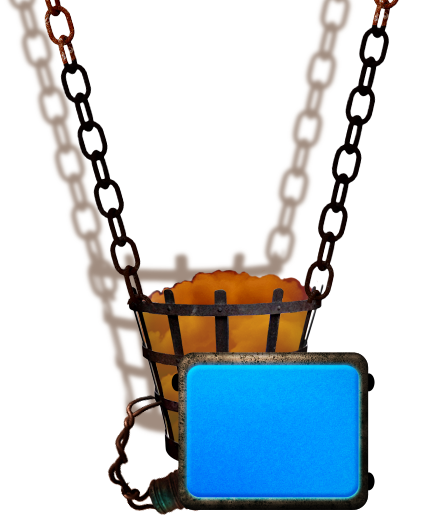
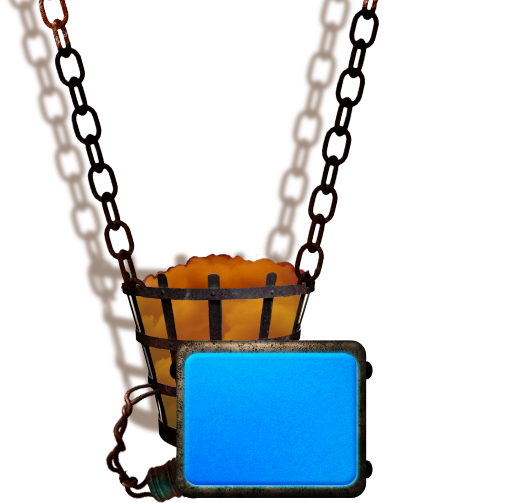
Fixing baskets images and positioning

diff --git a/src/code/templates/fv-egg-sort-game.js b/src/code/templates/fv-egg-sort-game.js
@@ -76,8 +76,8 @@ let animationEvents = {
           animatingDrake = new BioLogica.Organism(BioLogica.Species.Drake, egg.alleles, egg.sex);
           targetBasketIndex = basketIndex;
 
-          const leftOffset = 400,
-                topOffset = 200;
+          const leftOffset = 375,
+                topOffset = 100;
           appendAnimation('moveEggToBasket',
             <FastEggHatch
                 egg={animatingEgg} organism={animatingDrake}
@@ -91,8 +91,8 @@ let animationEvents = {
       }},
       hatchDrakeInBasket: { id: 1, complete: false, animate: function() {
         const { scale } = _this.props,
-              leftOffset = -250,
-              topOffset = -40;
+              leftOffset = -255,
+              topOffset = -140;
         appendAnimation('hatchDrakeInBasket',
           <NewEggHatch
               organism={animatingDrake} scale={scale}
@@ -104,8 +104,8 @@ let animationEvents = {
       fadeDrakeAway: { id: 2, complete: false, animate: function() {
         const { baskets, scale } = _this.props,
               targetBasket = targetBasketIndex >= 0 ? baskets[targetBasketIndex] : null,
-              leftOffset = 122,
-              topOffset = 204.5;
+              leftOffset = 113.5,
+              topOffset = 105.5;
         _this.clearSelection();
         resetAnimationEvents(false);
 

diff --git a/src/code/fv-components/fv-egg-hatch.js b/src/code/fv-components/fv-egg-hatch.js
@@ -34,7 +34,7 @@ class FVEggHatchView extends React.Component {
           newID = 'egg-hatch' + (id ? '-' + id : ''),
           eggStyle = { transform: "scale(.6)", position: 'absolute', size: width, ...displayStyle, top: displayStyle.top - width },
           drakeStyle = { position: 'absolute',
-                          marginLeft: width*7.6, marginTop: width*5, ...displayStyle },
+                          marginLeft: width*7.5, marginTop: width*5, ...displayStyle },
           orgView = <OrganismView id='egg-hatch-org' org={organism} width={2.5 * width} style={drakeStyle} />,
           displayedView = this.state.finished ? orgView : <AnimatedSprite onEnd={this.handleEnd} classNames={"animated-egg-image"} frames={16} frameWidth={1052} duration={1333} style={eggStyle} />;
 
